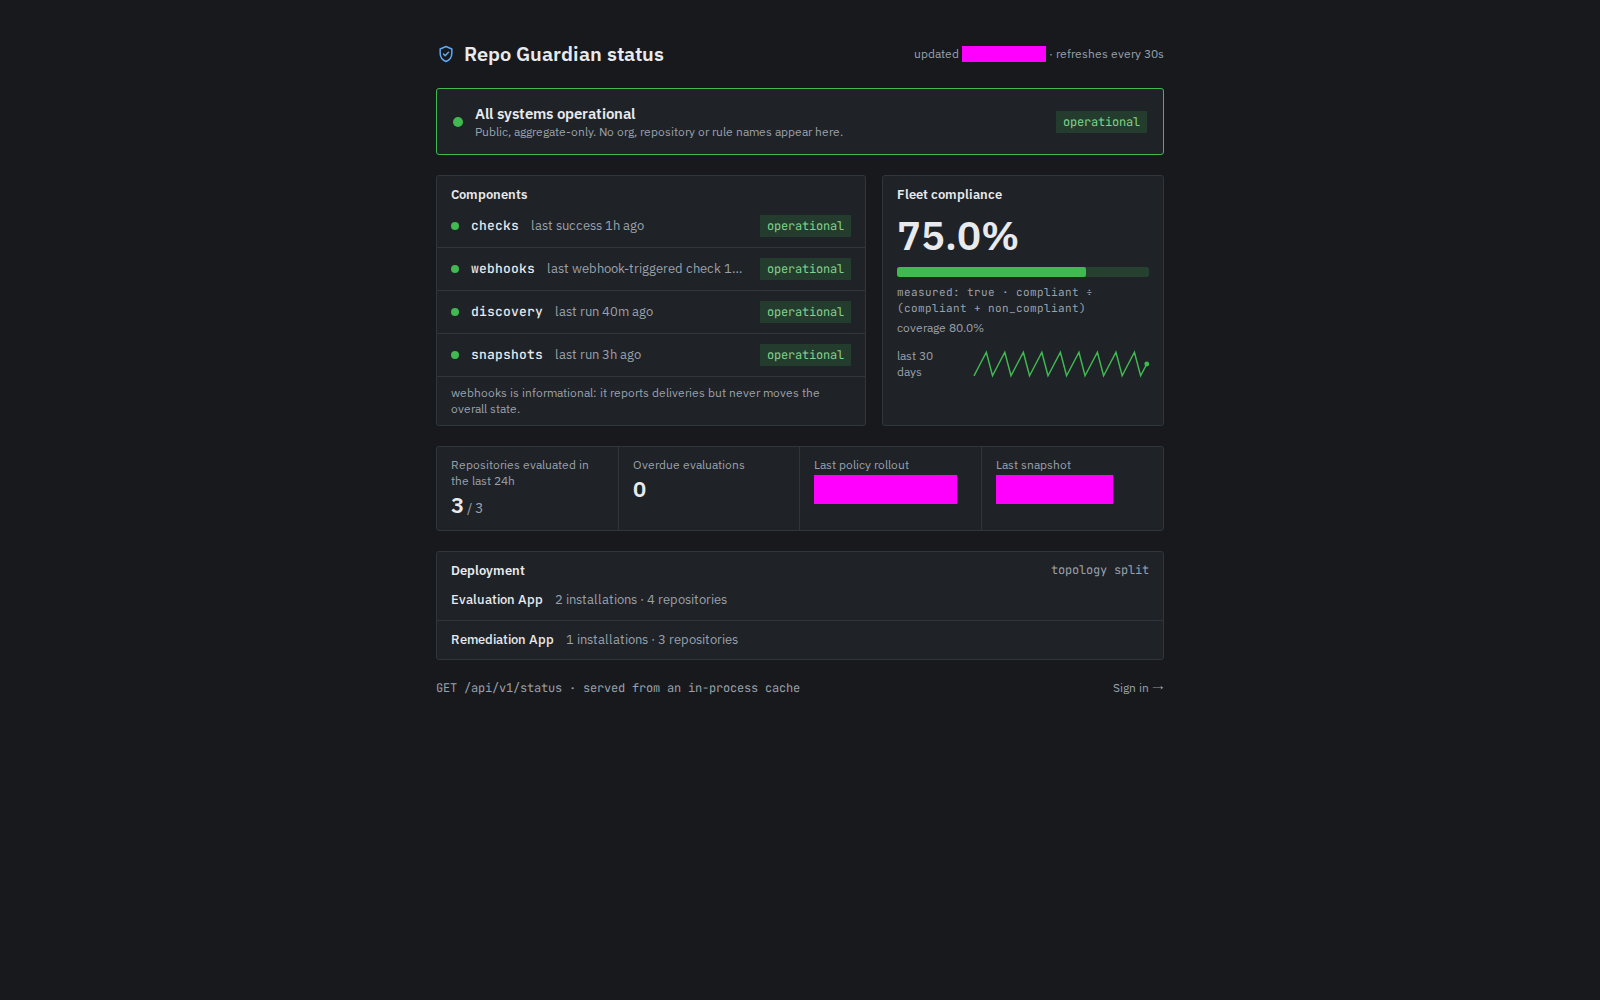
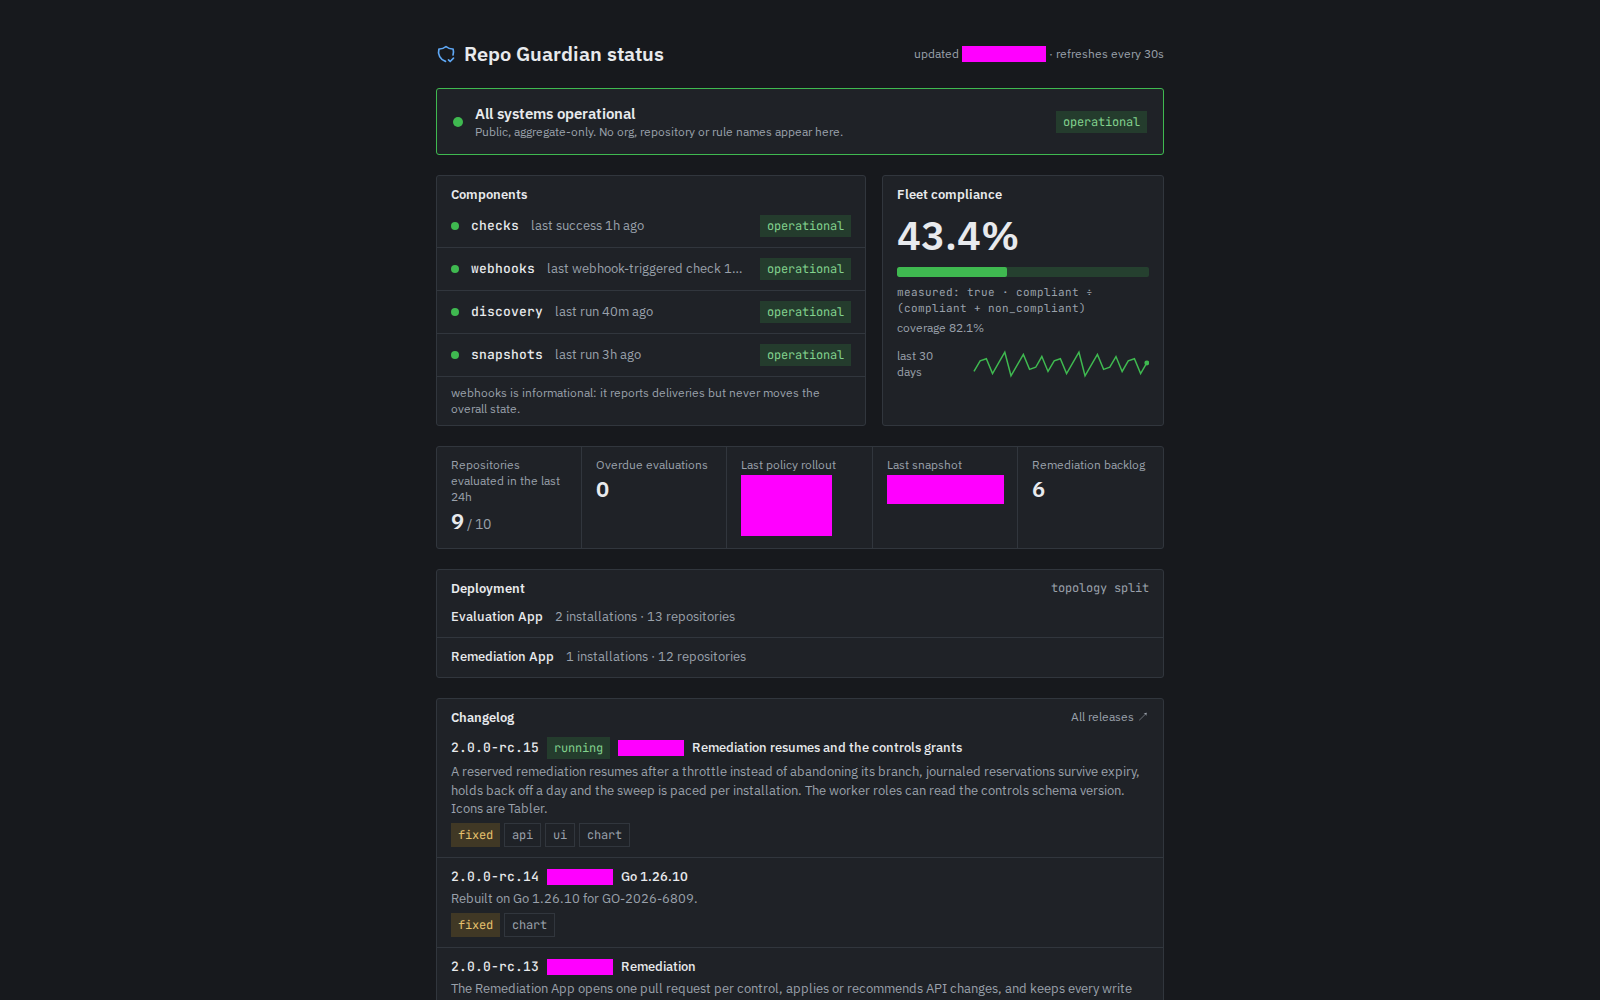
test(ui): re-render the status screenshot and add Findings, Orgs and Remediations to the visual spec (IMPL-0032 8.4)

diff --git a/ui/e2e/visual.spec.ts b/ui/e2e/visual.spec.ts
@@ -1,7 +1,9 @@
 import { expect, type Page, test } from "@playwright/test";
 
 // IMPL-0031 6.2 (DESIGN-0036 OQ5): one screenshot per reference page at
-// 1600×1000; since IMPL-0029 7.7 that is the status page alone. The snapshots under e2e/__screenshots__/ are rendered by
+// 1600×1000: the status page, and since IMPL-0032 8.4 the Findings,
+// Orgs (expanded) and Remediations pages signed in through the mock
+// issuer. The snapshots under e2e/__screenshots__/ are rendered by
 // the Chromium inside the pinned mcr.microsoft.com/playwright image, so
 // fonts and anti-aliasing are the same on every machine; the spec only
 // runs when the test runner is connected to that browser
@@ -26,4 +28,27 @@ test("Status", async ({ page }) => {
   await page.goto("/status");
   await expect(page.locator("[data-component]").first()).toBeVisible();
   await snapshot(page, "status.png");
+});
+
+async function signIn(page: Page, path: string) {
+  await page.goto(path);
+  await expect(page.getByRole("button", { name: "Account menu" })).toBeVisible();
+}
+
+test("Findings", async ({ page }) => {
+  await signIn(page, "/findings");
+  await expect(page.getByRole("table", { name: "Findings" }).locator("tbody tr").first()).toBeVisible();
+  await snapshot(page, "findings.png");
+});
+
+test("Orgs", async ({ page }) => {
+  await signIn(page, "/orgs?open=acme");
+  await expect(page.getByRole("table", { name: "Orgs" }).locator("tr[data-child='acme/web']")).toBeVisible();
+  await snapshot(page, "orgs.png");
+});
+
+test("Remediations", async ({ page }) => {
+  await signIn(page, "/remediations");
+  await expect(page.getByRole("table", { name: "Remediations" }).locator("tbody tr").first()).toBeVisible();
+  await snapshot(page, "remediations.png");
 });
